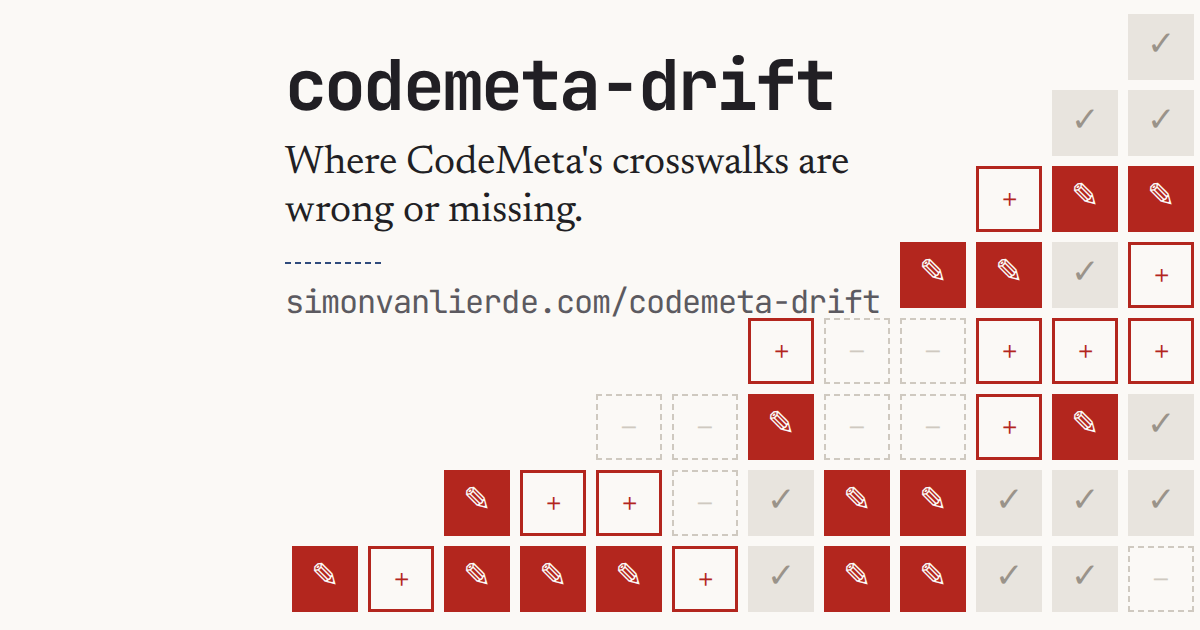
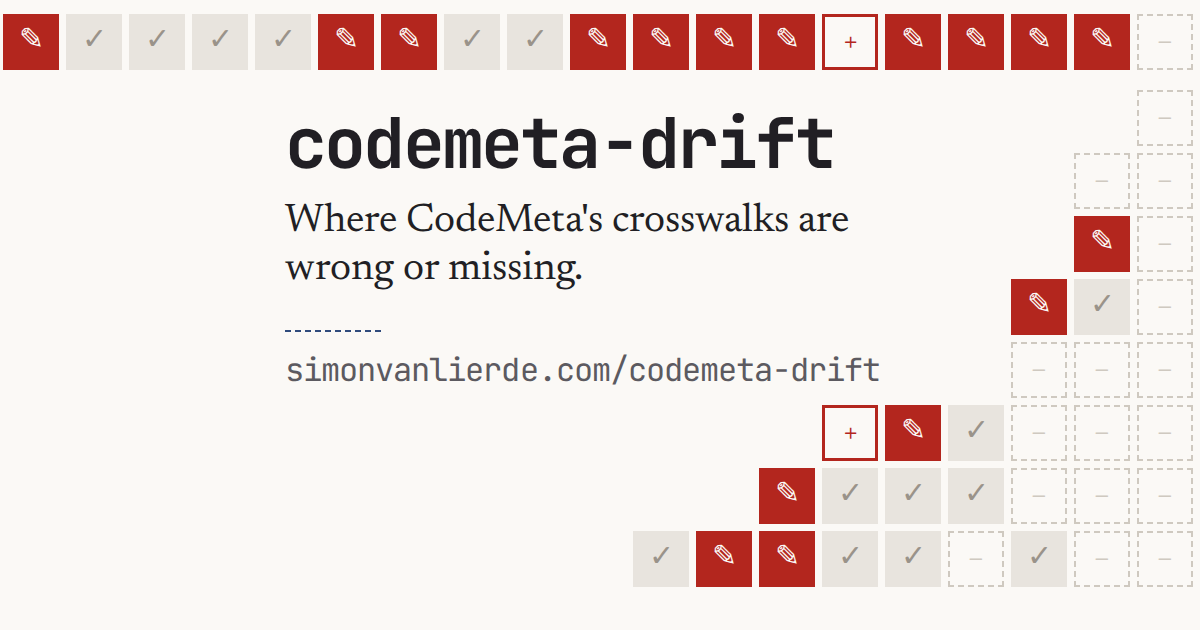
refactor(site): put a DataCite band above the card's staircase
- draw the full DataCite row across the top as a band, over all 19 terms
- run the staircase on the band's own term columns (7 to 18), flush with the band's last cell and the card's right edge
- shorten the third staircase row by one tile and extend the sixth by one real cell

diff --git a/docs/og-card.html b/docs/og-card.html
@@ -25,8 +25,8 @@
   .job { position: absolute; font: 400 40px/1.2 var(--serif); width: 600px; }
   .url { position: absolute; font: 400 32px/1 var(--mono); color: var(--faint); letter-spacing: -0.03em; }
   .url::before { content: ""; display: block; width: 96px; border-top: 2px dashed var(--link); margin-bottom: 22px; }
-  :root { --g: 34px; }
-  h1 { top: 50px; } .job { top: 140px; } .url { top: 262px; }  .n { border: 2px dashed #cfc9c0; color: #cfc9c0; }
+  :root { --g: 30px; }
+  h1 { top: 108px; } .job { top: 198px; } .url { top: 330px; }  .n { border: 2px dashed #cfc9c0; color: #cfc9c0; }
 
 </style>
 </head>
@@ -43,10 +43,11 @@
 </main>
 <script>
   const rows = ["ooooox----xxxoooo--", "oooppxpppxoxxxooo--", "xooooxxooxxxxpxxxx-", "opopp-----oxxxopxo-", "ppppp-----p--ppp---", "ooxpp-----x--pxo---", "xoopp-x---o--opx---", "ooopp-xpp-oxxooo---", "xoxxxpxxxpoxxoo-o--", "oppppp-----xx------"];
-  // Rows (0, 1, 2, 3, 4, 5, 7, 8) (Zenodo to R DESCRIPTION, one skipped in the middle keeps matrix order), terms 4-15; row i keeps its last k terms.
-  const P = 76, W = 66, H = 66, cols = 12, c0 = 4, sub = [0, 1, 2, 3, 4, 5, 7, 8], ks = [1, 2, 3, 4, 6, 8, 10, 12];
+  // Top band: DataCite across all 19 terms. Staircase: rows (0, 1, 2, 3, 4, 5, 7, 8), terms 7-18 on the band's own columns; row i keeps its last k terms.
+  const P = 63, W = 56, H = 56, sub = [0, 1, 2, 3, 4, 5, 7, 8], ks = [1, 2, 2, 3, 3, 6, 7, 9];
   const cells = [];
-  ks.forEach((k, i) => { for (let j = cols - k; j < cols; j++) cells.push([sub[i], c0 + j, 1200 - (cols - j) * P + 4, 14 + i * P]); });
+  for (let c = 0; c < 19; c++) cells.push([2, c, 3 + c * P, 14]);
+  ks.forEach((k, i) => { for (let c = 19 - k; c < 19; c++) cells.push([sub[i], c, 3 + c * P, 90 + i * P]); });
   const mark = { o: "✓", x: "✎", p: "+", "-": "–" };
   document.getElementById("m").innerHTML = cells.map(([r, c, x, y]) => {
     const s = rows[r][c];
